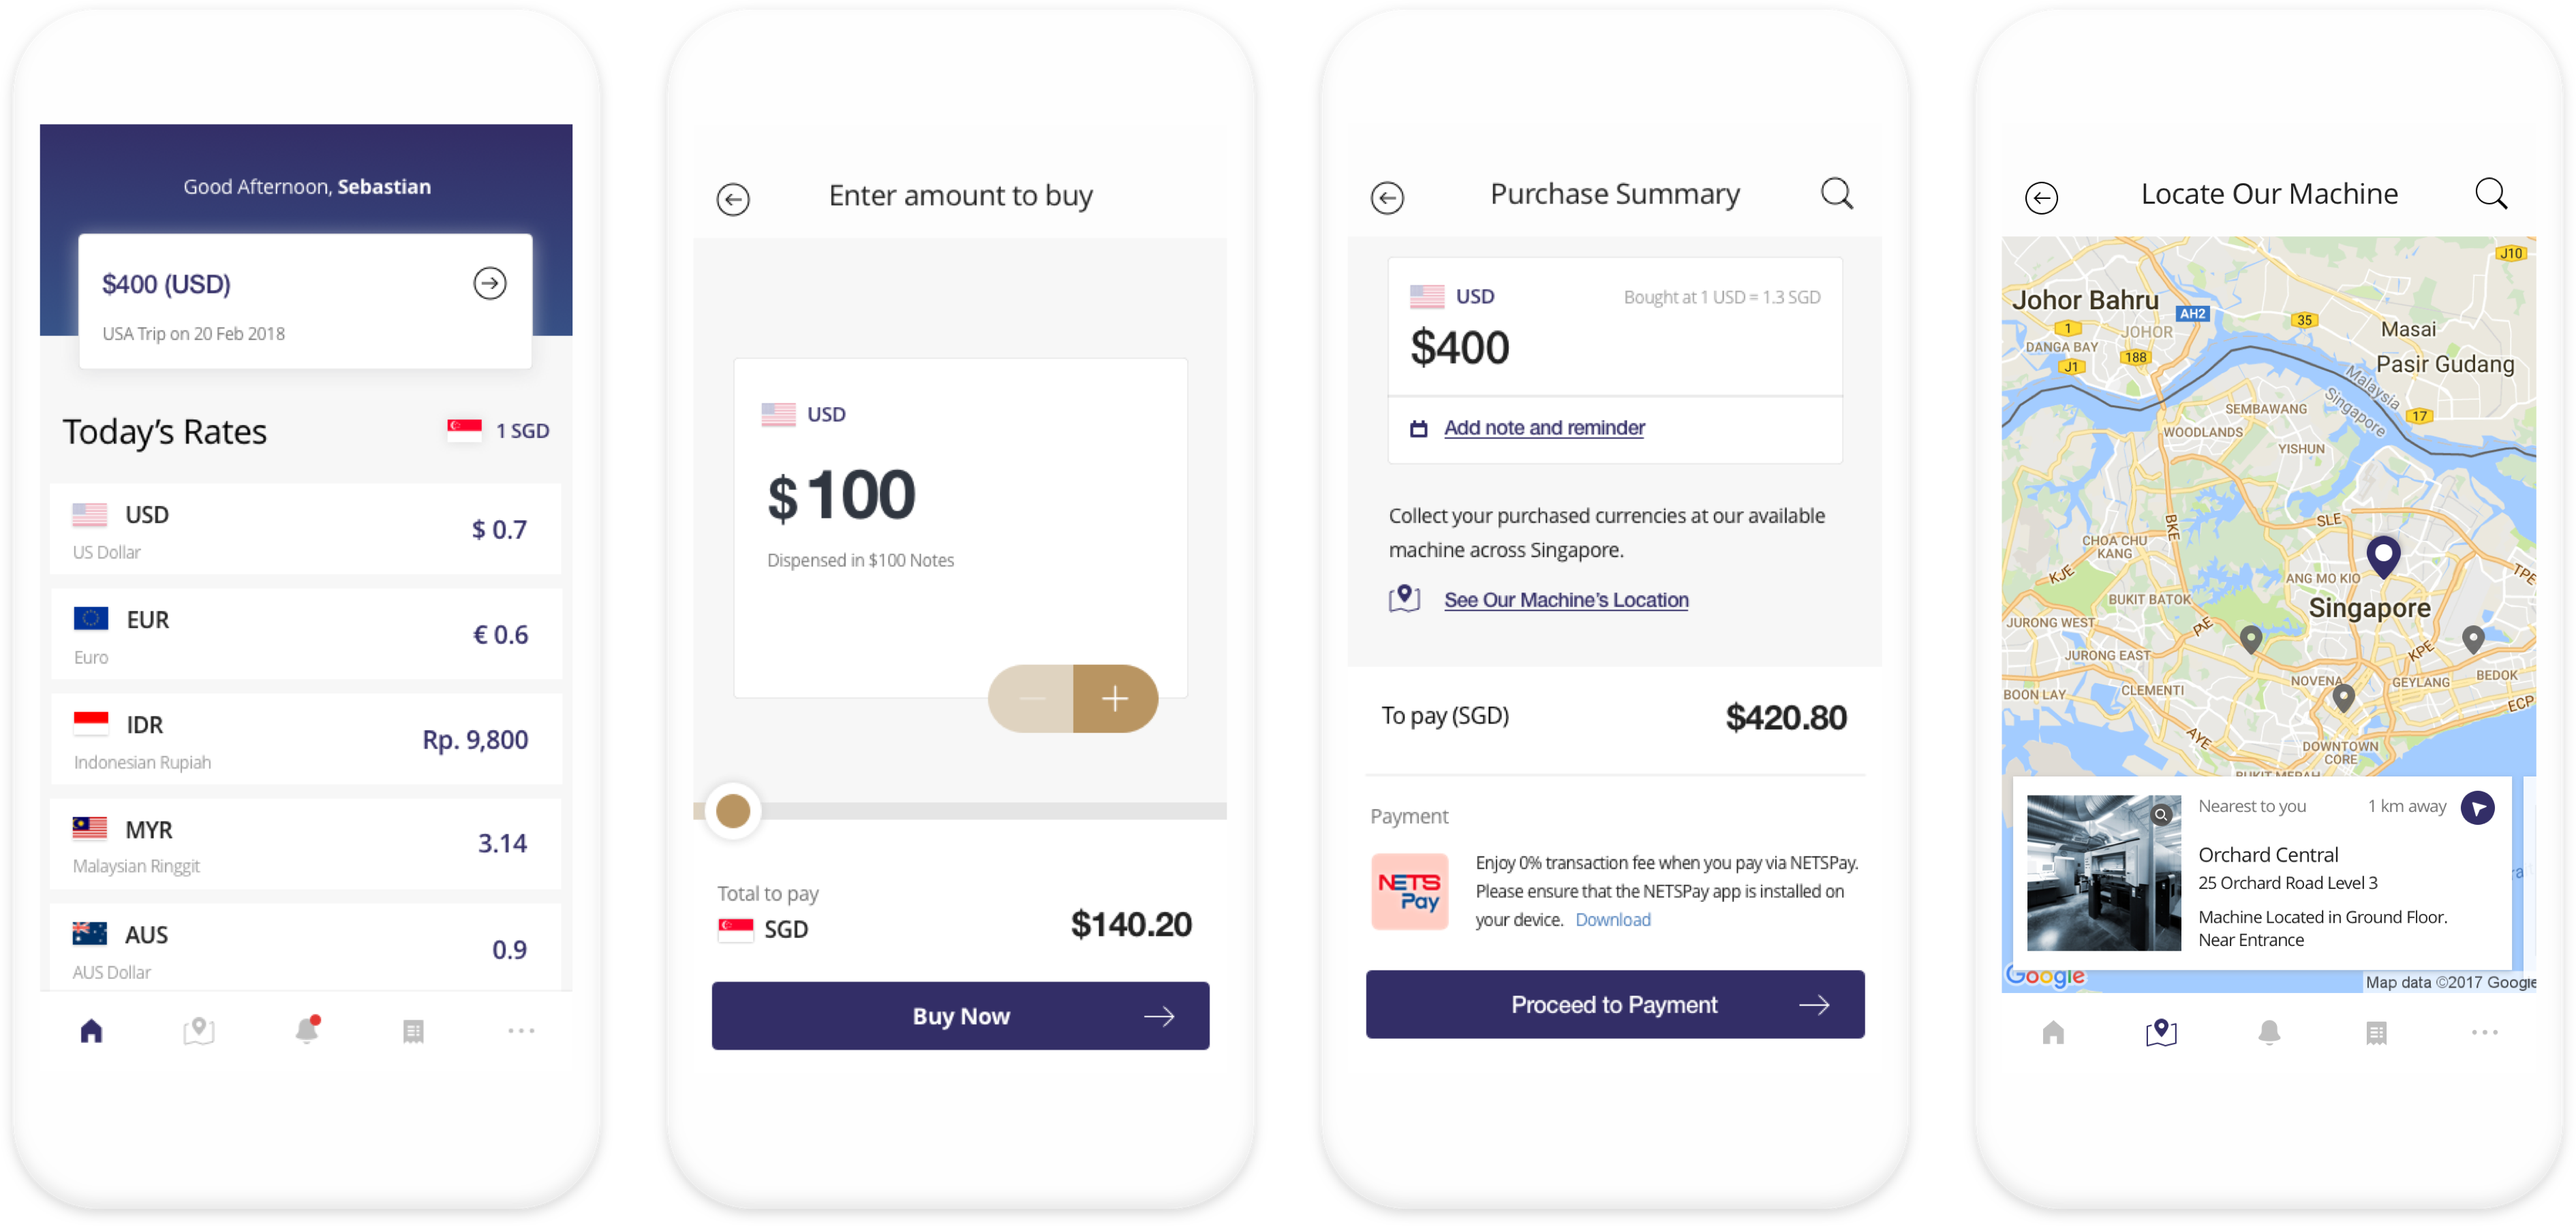
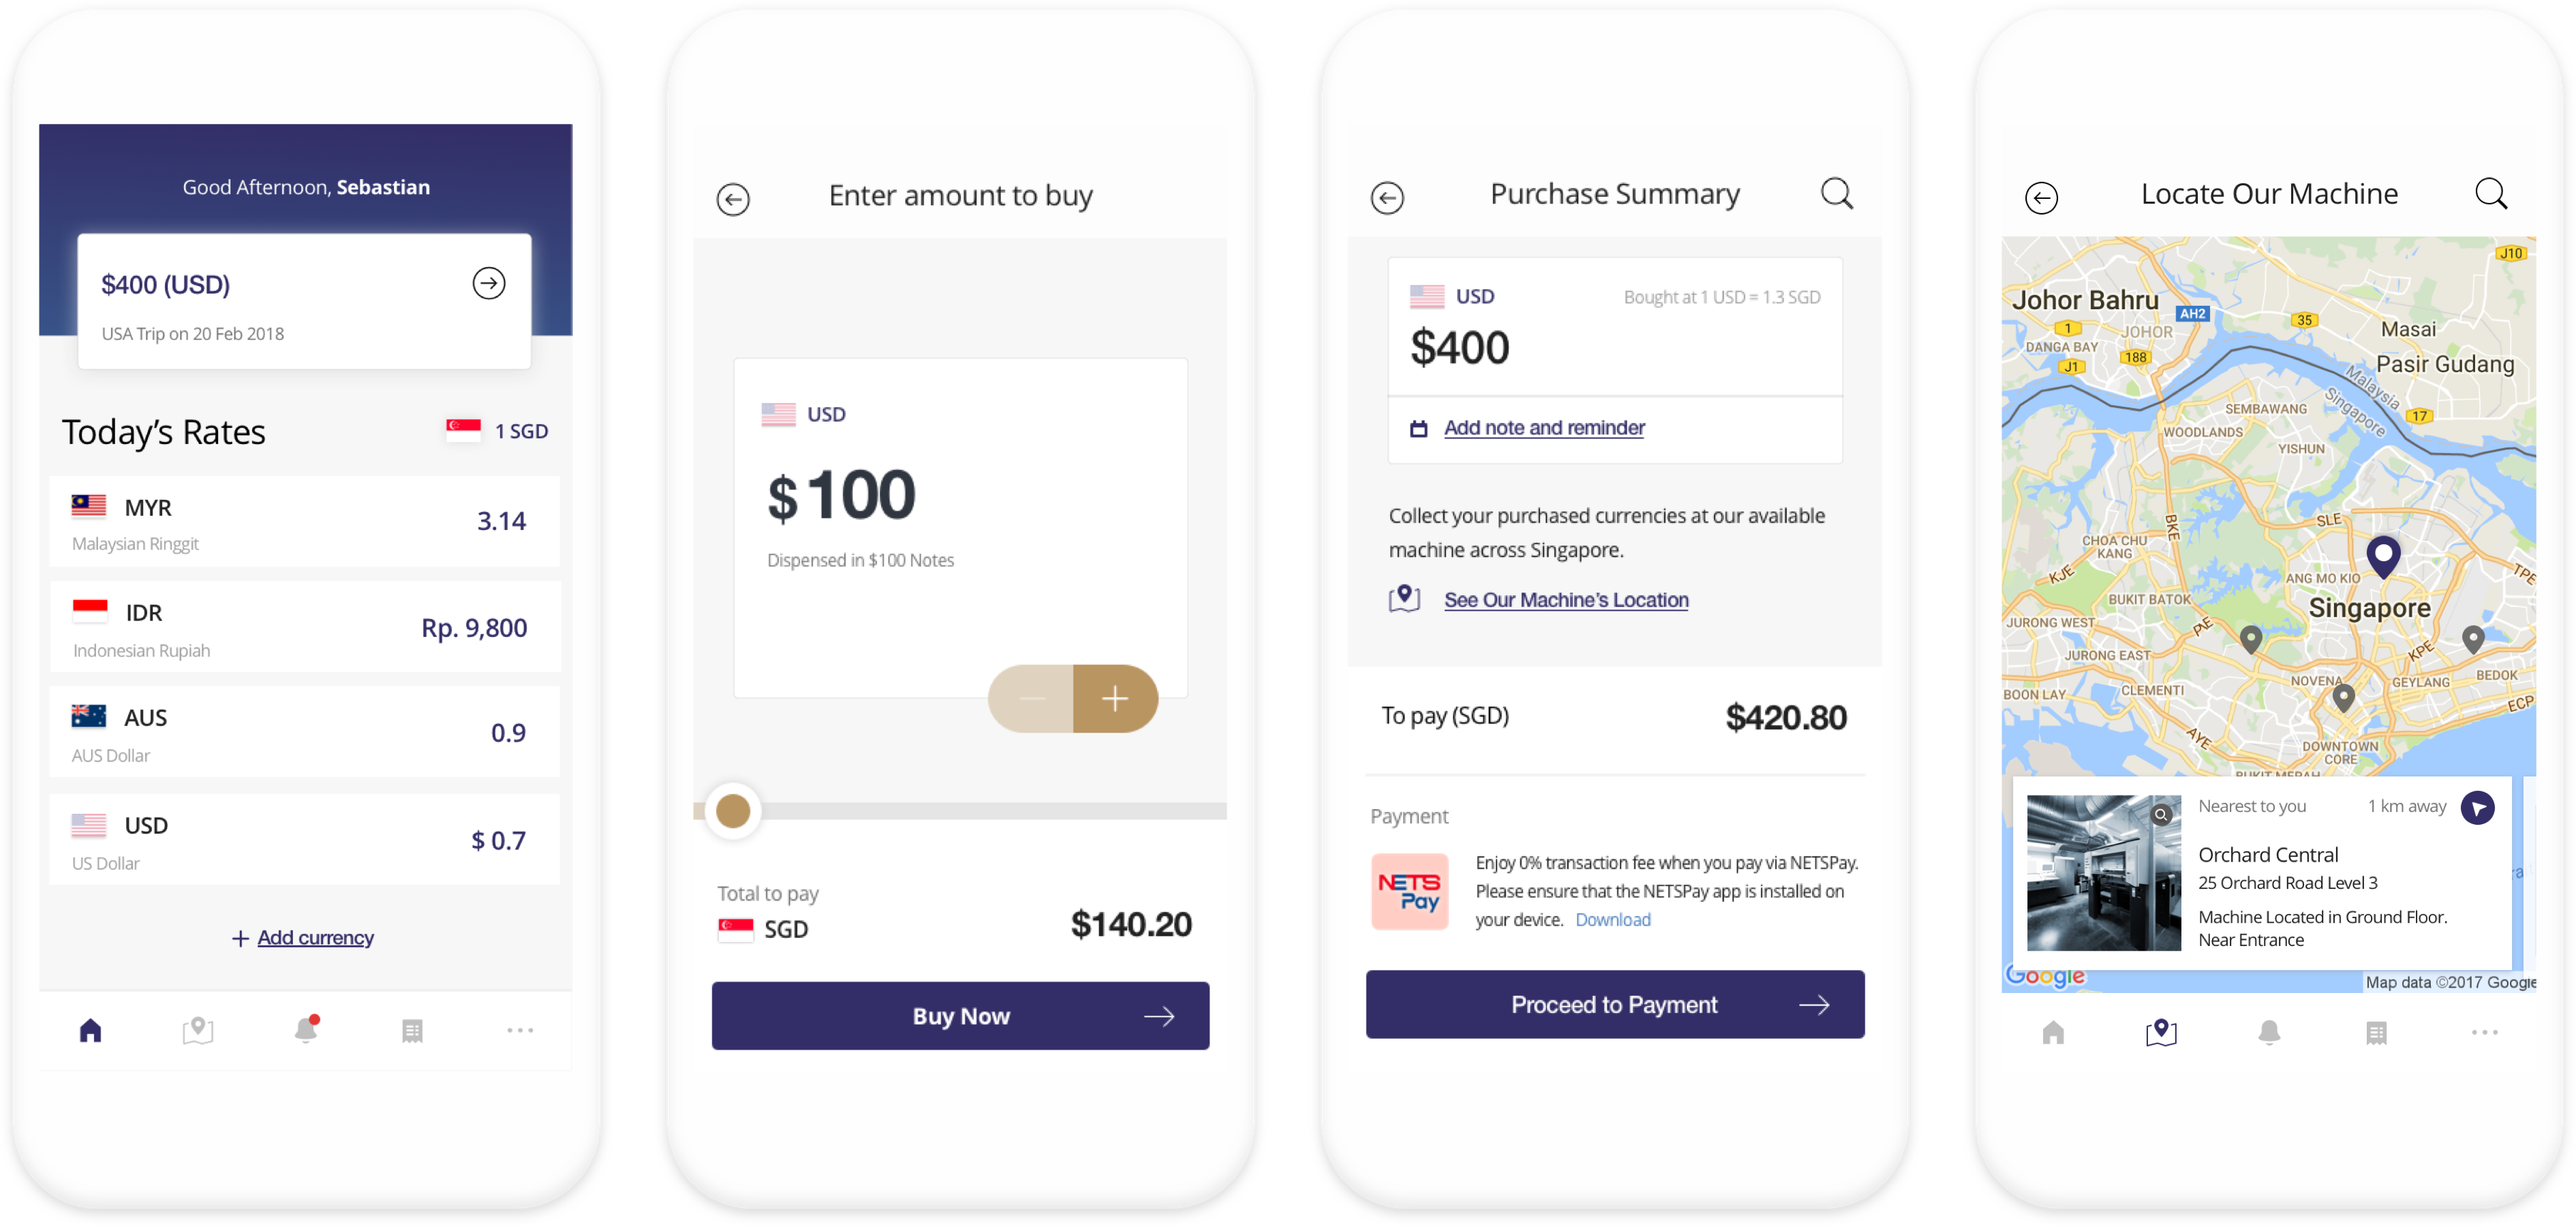
fx update

diff --git a/pages/fxchange.html b/pages/fxchange.html
@@ -115,6 +115,7 @@
 And gather feedbacks from usabality testing to iterate.</p>
 <div class="paragraph">
 		<h4>Wireframe & Flow</h4>
+		<img class="image-page" src="../images/fx-change-flow.png">
 		<img class="image-page" src="../images/fx-change-wireframe1.png">
 		<img class="image-page" src="../images/fx-change-wireframe2.png">
 </div>
@@ -125,7 +126,7 @@ And gather feedbacks from usabality testing to iterate.</p>
 	<h2>Iterate & build</h2>
 		<p>From the feedbacks and data collected. We iterate the wireframe and come up with final design.</p>
 	<p><b>1. Currency Selection</b></p>
-	<p>To solve the confusion of reading rate, an indication of base currencies in SGD is added.<br>Visual aid in form of country flag to add into clarity.</p>
+	<p>To solve the confusion of reading rate, an indication of base currencies in SGD is added.<br>Visual aid in form of country flag to add into clarity.<br>We allow user to select and display only the currency they need.</p>
 	<p><b>2. Machine can only dispense specific denominal notes</b></p>
 	<p>Show user starting from lowest denominal that can be bought</p>
 	<p><b>3. Finding collection point</b></p>
